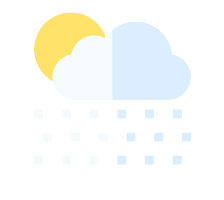
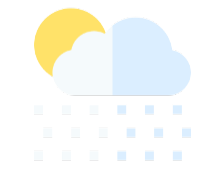
fourth

diff --git a/first.js b/first.js
@@ -64,17 +64,17 @@ function disData(data) {
   document.querySelector(".visibility").innerText = visib + " mi";
   document.querySelector(".pressure").innerText = press + " hPa";
   if (type === "Clouds") {
-    document.querySelector(".weathericon").src = "images/clouds.png";
+    document.querySelector(".weathericon").src = "images/clouds1.png";
   } else if (type === "Clear") {
-    document.querySelector(".weathericon").src = "images/clear.png";
+    document.querySelector(".weathericon").src = "images/clear1.png";
   } else if (type === "Rain") {
-    document.querySelector(".weathericon").src = "images/rain.png";
+    document.querySelector(".weathericon").src = "images/rain1.png";
   } else if (type === "Drizzle") {
-    document.querySelector(".weathericon").src = "images/drizzle.png";
+    document.querySelector(".weathericon").src = "images/drizzle1.png";
   } else if (type === "Mist") {
-    document.querySelector(".weathericon").src = "images/mist.png";
+    document.querySelector(".weathericon").src = "images/mist1.png";
   } else if (type === "Snow") {
-    document.querySelector(".weathericon").src = "images/snow.png";
+    document.querySelector(".weathericon").src = "images/snow1.png";
   }
 }
 

diff --git a/index.html b/index.html
@@ -59,11 +59,11 @@
             </div>
             <div class="text-center mt-3 text-white">
               <h2 class="city m-0">Kozhikode</h2>
-              <div id="p1" class="text-white"></div>
+              <div id="p1" class="text-white mb-1"></div>
 
-              <img src="images/rain2.png" alt="" class="weathericon" />
+              <img src="images/rain1.png" alt="" class="weathericon" />
 
-              <h1 class="temp m-0">34°C</h1>
+              <h1 class="temp m-0 mt-1">34°C</h1>
               <h2 class="imgdesc m-0">Cloudy</h2>
             </div>
             <div
